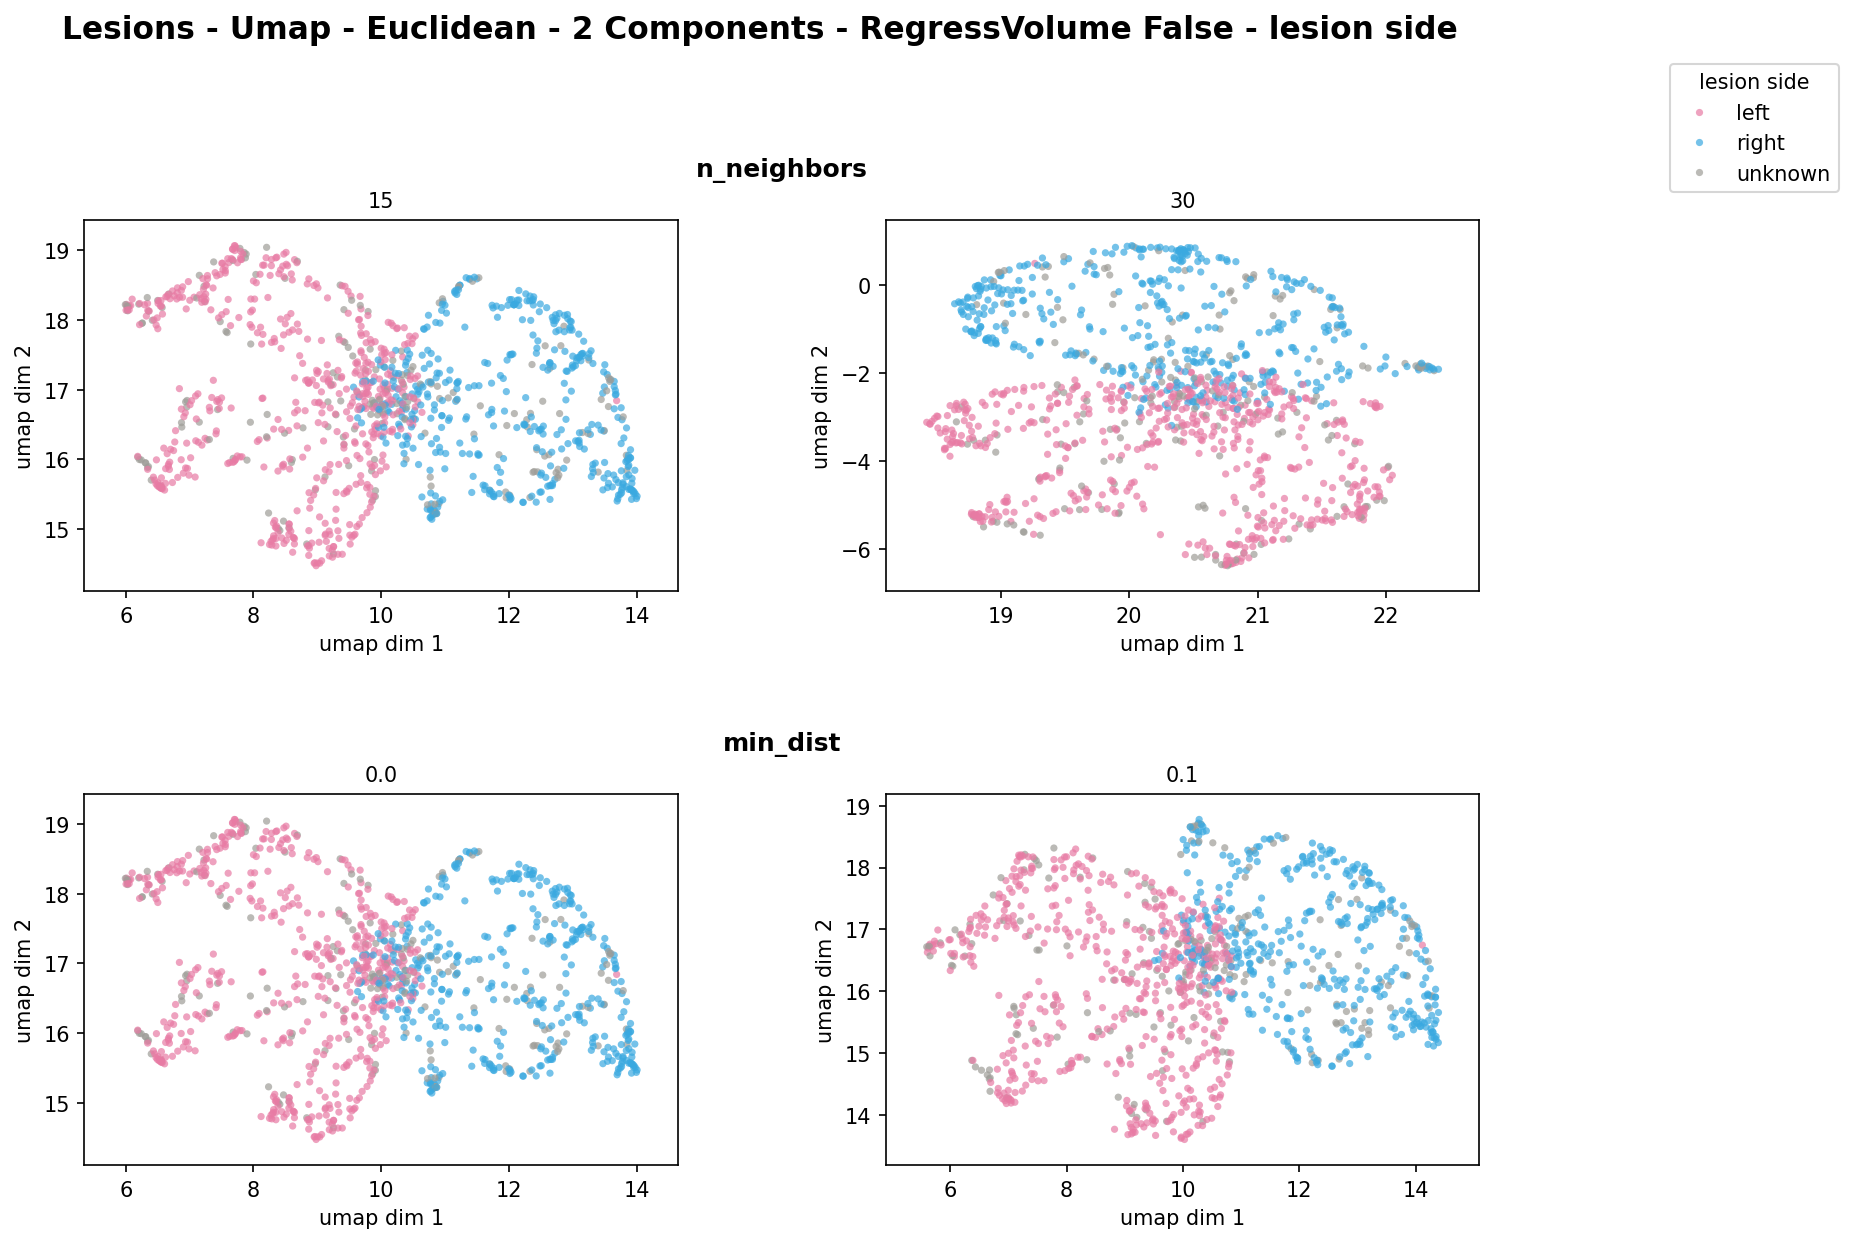
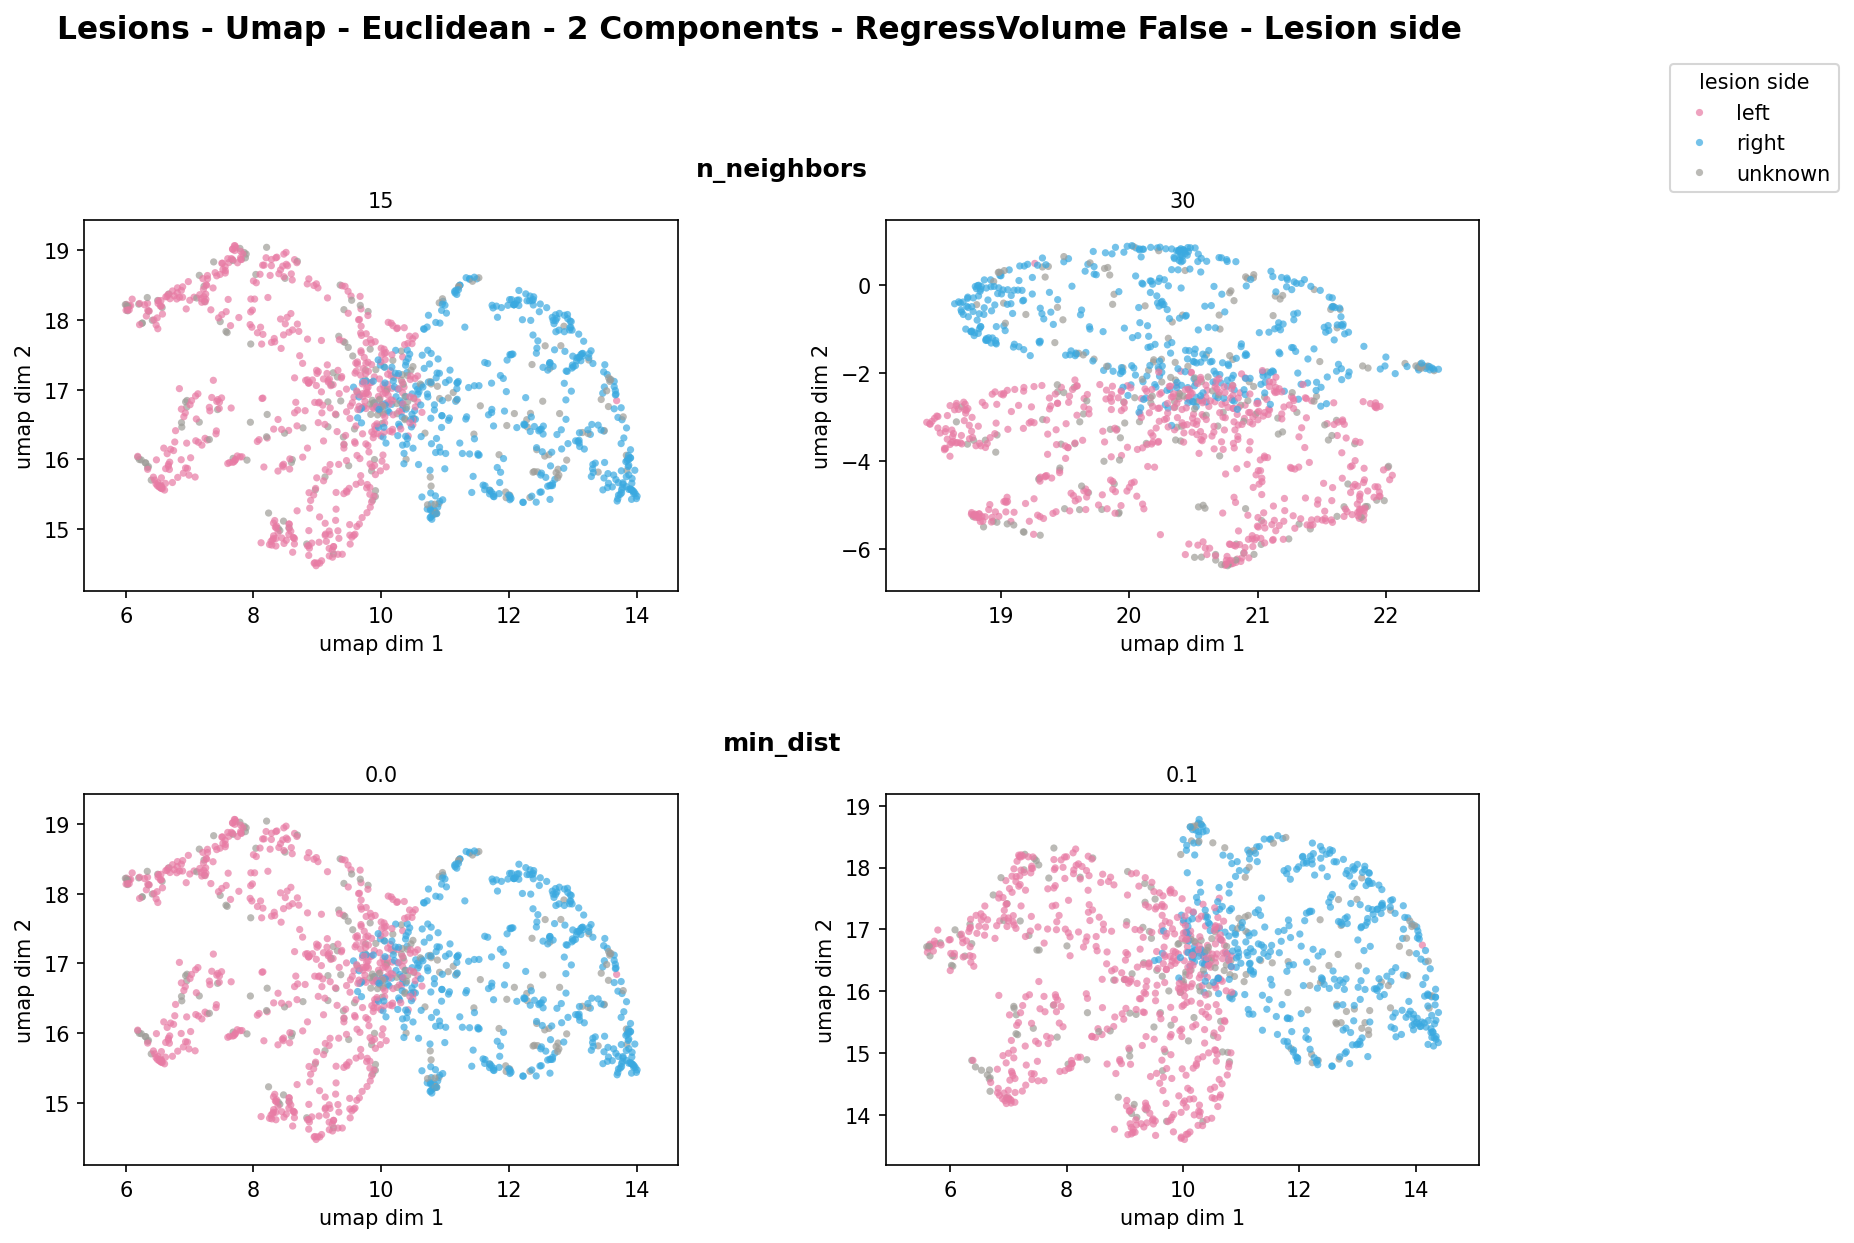
fix: capitalize plot labels in tuning leaves and remove preview artifacts

Changed region(s): [[0.0307, 0.0, 0.7994, 0.0306]]

diff --git a/src/pipeline/dim_reduction.py b/src/pipeline/dim_reduction.py
@@ -373,7 +373,7 @@ def _write_nested_tuning_leaves(
             leaf_dir,
             f"{config.reduction_method} dim 1",
             f"{config.reduction_method} dim 2",
-            lambda label, leaf_title=leaf_title: f"{leaf_title} - {label}" if label else leaf_title,
+            lambda label, leaf_title=leaf_title: f"{leaf_title} - {label.capitalize()}" if label else leaf_title,
         )
 
 
